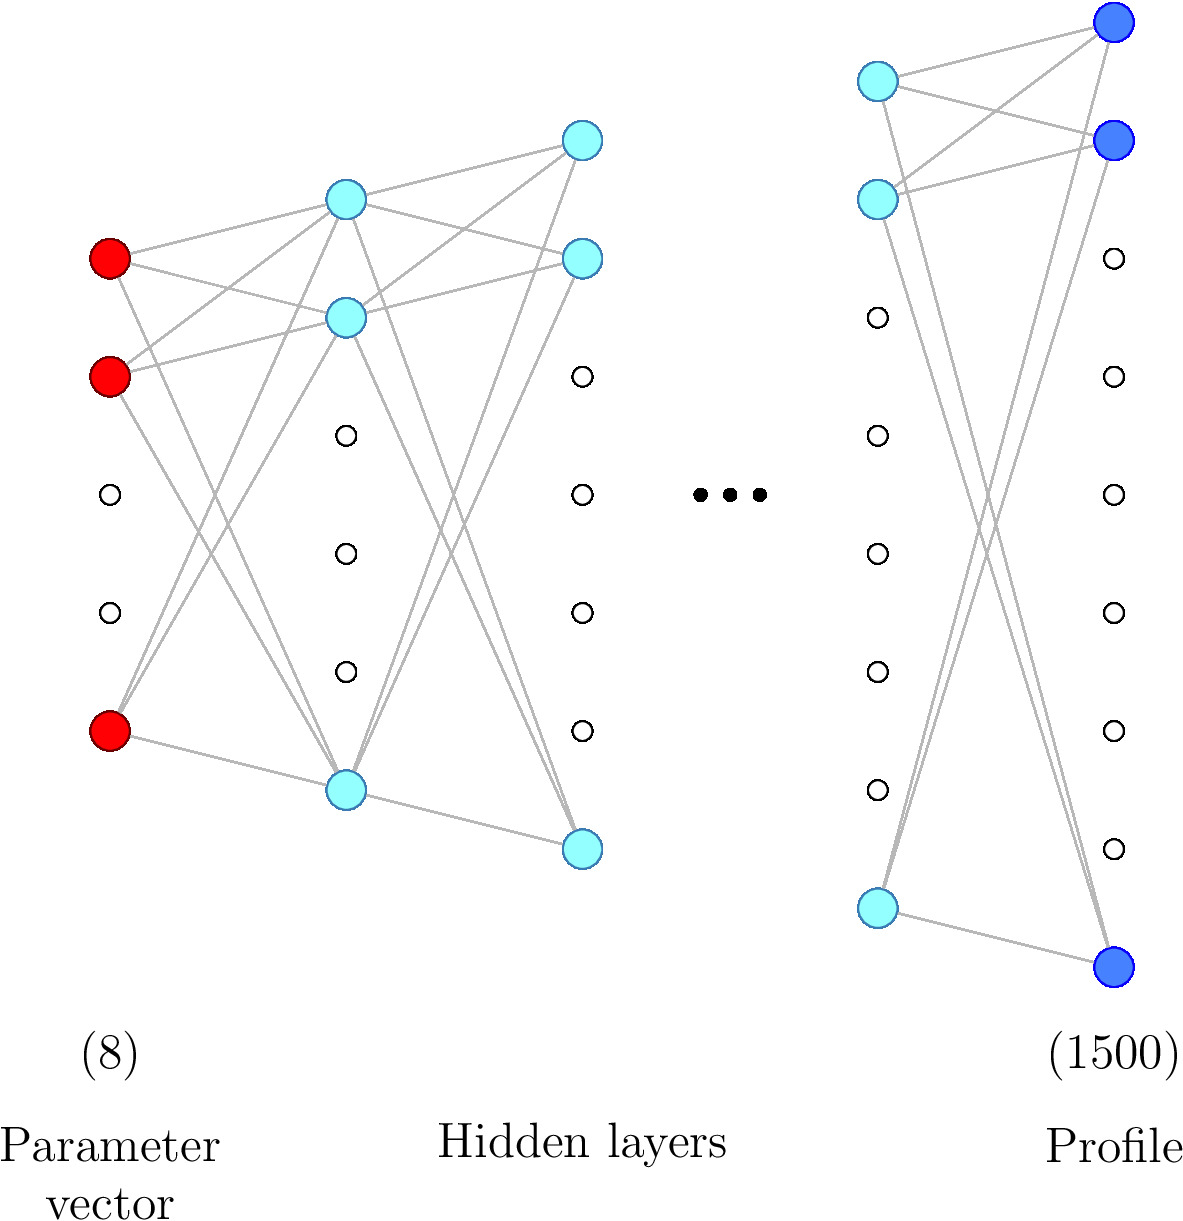
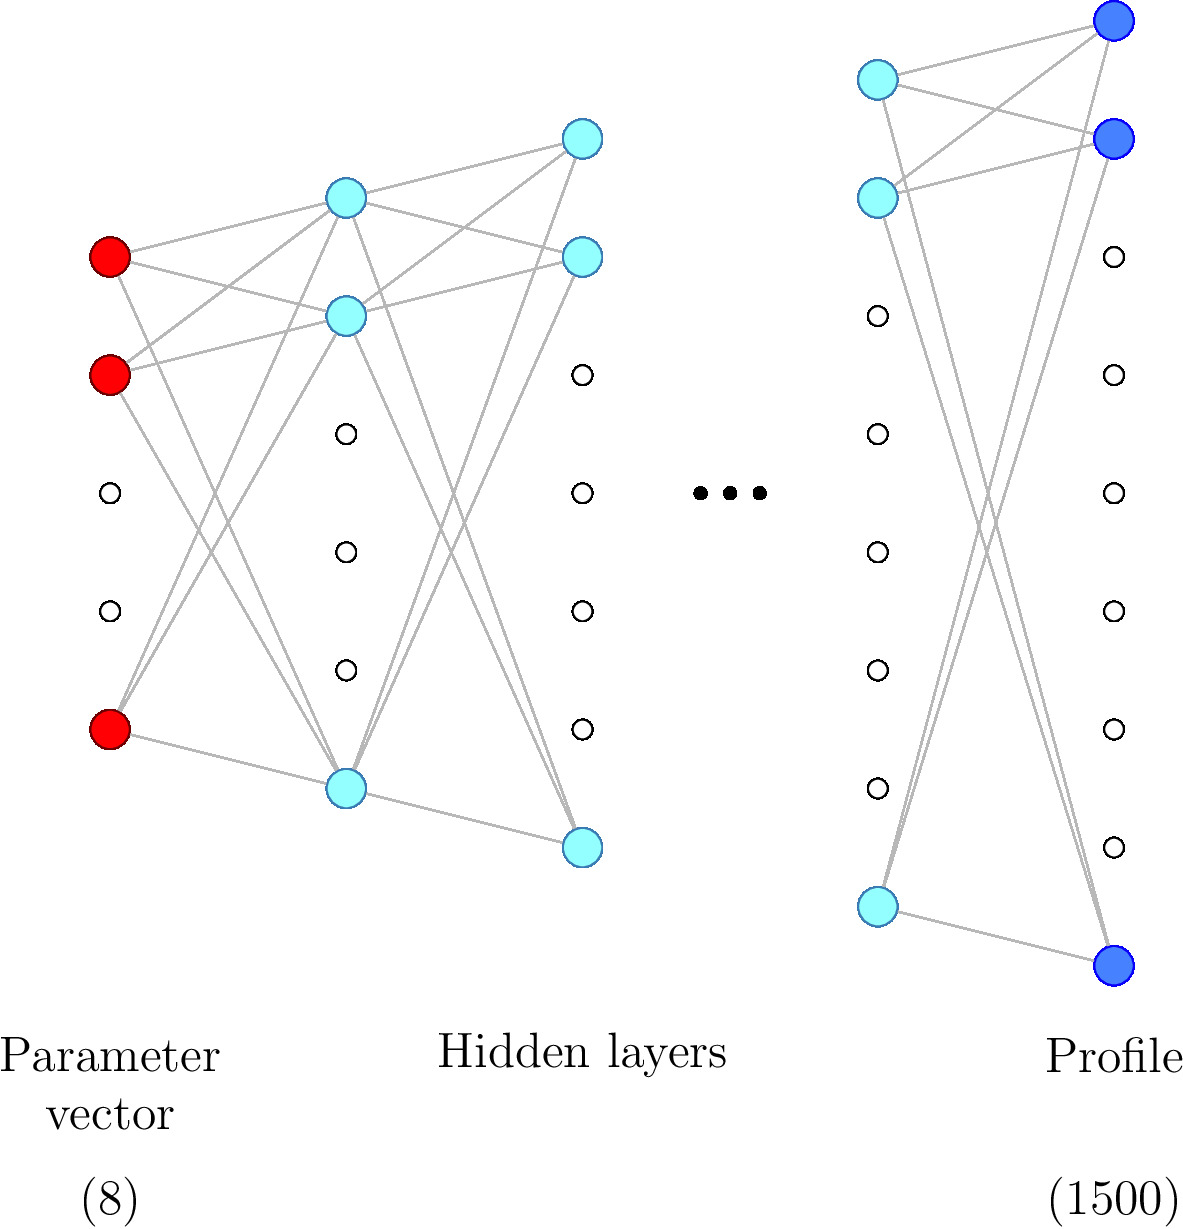
MLP diagram update

diff --git a/diagrams/MLP/MLP_example.tex b/diagrams/MLP/MLP_example.tex
@@ -105,14 +105,14 @@
         
         
         % description at the bottom 
-        \node [style=myText] (50) at (0, -2.75) {\large (8)};
-        \node [style=myText] (51) at (0, -3.5) {\large Parameter};
-        \node [style=myText] (52) at (0, -4.0) {\large vector};
+        \node [style=myText] (50) at (0, -4) {\large (8)};
+        \node [style=myText] (51) at (0, -2.75) {\large Parameter};
+        \node [style=myText] (52) at (0, -3.25) {\large vector};
 
-        \node [style=myText] (60) at (8.5, -2.75) {\large (1500)};
-        \node [style=myText] (61) at (8.5, -3.5) {\large Profile};
+        \node [style=myText] (60) at (8.5, -4) {\large (1500)};
+        \node [style=myText] (61) at (8.5, -2.75) {\large Profile};
         
-        \node [style=myText] (51) at (4, -3.5) {\large Hidden layers};
+        \node [style=myText] (51) at (4, -2.75) {\large Hidden layers};
         
         % epmty nodes for docking line at the bottom 
         \node [style=none] (100) at (1.75,  -2.75) {};
